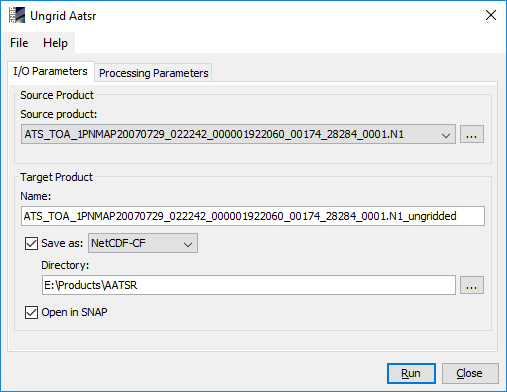
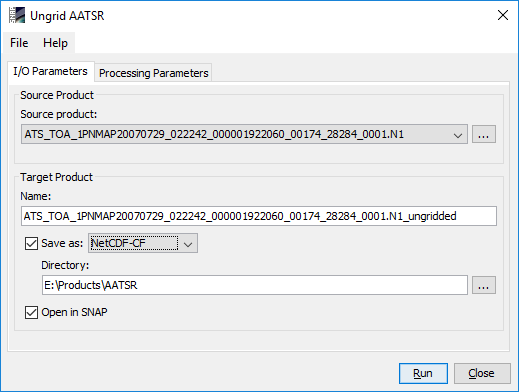
updated help

diff --git a/s3tbx-regrid/src/main/javahelp/org/esa/s3tbx/aatsr/regrid/docs/AatsrRegriddingProcessorDescription.html b/s3tbx-regrid/src/main/javahelp/org/esa/s3tbx/aatsr/regrid/docs/AatsrRegriddingProcessorDescription.html
@@ -32,7 +32,7 @@
 <h3>User Interface</h3>
 <p>
     The AATSR Regridding processor can be invoked from the SNAP tool menu by selecting
-    the <b>Ungrid Aatsr</b> command from the <b>Raster</b> menu. On the
+    the <b>Ungrid AATSR</b> command from the <b>Raster</b> menu. On the
     command line the AATSR Regridding processor is
     available by means of the Graph Processing Tool <code>gpt</code> which is located in the SNAP <code>bin</code>
     directory. Typing <code>gpt AATSR.Ungrid -h</code> displays further information.
